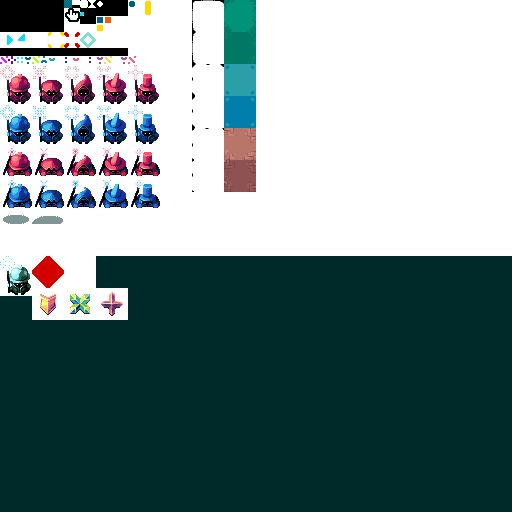
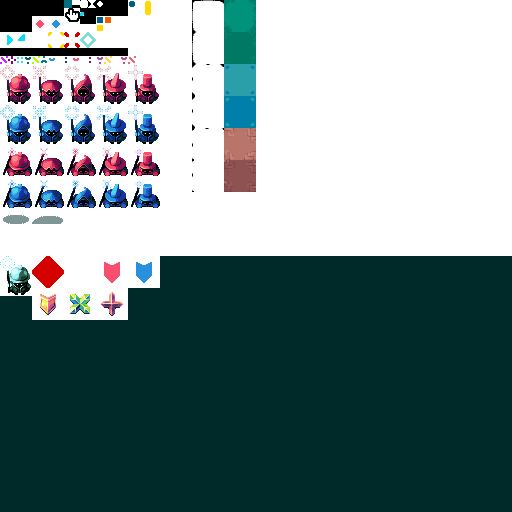
Implement shield powerup

Changed region(s): [[0.1875, 0.5, 0.3125, 0.5625], [0.0625, 0.0312, 0.125, 0.0625]]

diff --git a/src/app/state/lobby.rs b/src/app/state/lobby.rs
@@ -1,4 +1,4 @@
-use std::{cell::RefCell, rc::Rc};
+use std::{cell::RefCell, f64::consts::TAU, rc::Rc};
 
 use shared::{
     GameResult, LoadoutMethod, Lobby, LobbyError, LobbyID, LobbySettings, LobbySort, Mage, Mages,
@@ -306,6 +306,41 @@ impl LobbyState {
                 // DRAW markers
                 context.save();
 
+                for mage in self.lobby.game.iter_mages() {
+                    if mage.is_alive() && mage.is_defensive() {
+                        for (_, position) in self.lobby.game.targets(mage, mage.position) {
+                            match mage.team {
+                                Team::Red => {
+                                    draw_sprite(
+                                        context,
+                                        atlas,
+                                        32.0,
+                                        16.0,
+                                        16.0,
+                                        16.0,
+                                        position.0 as f64 * 32.0 + 8.0,
+                                        position.1 as f64 * 32.0 + 8.0,
+                                    )?;
+                                    // draw_crosshair(context, atlas, &position, (32.0, 16.0), 1)?;
+                                }
+                                Team::Blue => {
+                                    draw_sprite(
+                                        context,
+                                        atlas,
+                                        48.0,
+                                        16.0,
+                                        16.0,
+                                        16.0,
+                                        position.0 as f64 * 32.0 + 8.0,
+                                        position.1 as f64 * 32.0 + 8.0,
+                                    )?;
+                                    // draw_crosshair(context, atlas, &position, (48.0, 16.0), 1)?;
+                                }
+                            }
+                        }
+                    }
+                }
+
                 if let Some(mage) = self.get_active_mage() {
                     let available_moves = self.lobby.game.available_moves(mage);
                     for (position, dir, _) in &available_moves {
@@ -441,19 +476,35 @@ impl LobbyState {
 
                     context.restore();
 
-                    if mage.is_alive() && mage.has_diagonals() {
-                        for _ in 0..(frame / 3 % 2) {
-                            let d = js_sys::Math::random() * -std::f64::consts::PI * 0.9;
-                            let v = (js_sys::Math::random() + js_sys::Math::random()) * 0.05;
-                            self.particle_system.add(Particle::new(
-                                (
-                                    mage.position.0 as f64 + d.cos() * 0.4,
-                                    mage.position.1 as f64 - 0.15 + d.sin() * 0.4,
-                                ),
-                                (d.cos() * v, d.sin() * v),
-                                (js_sys::Math::random() * 30.0) as u64,
-                                ParticleSort::Diagonals,
-                            ));
+                    if mage.is_alive() {
+                        if mage.has_diagonals() {
+                            for _ in 0..(frame / 3 % 2) {
+                                let d = js_sys::Math::random() * -std::f64::consts::PI * 0.9;
+                                let v = (js_sys::Math::random() + js_sys::Math::random()) * 0.05;
+                                self.particle_system.add(Particle::new(
+                                    (
+                                        mage.position.0 as f64 + d.cos() * 0.4,
+                                        mage.position.1 as f64 - 0.15 + d.sin() * 0.4,
+                                    ),
+                                    (d.cos() * v, d.sin() * v),
+                                    (js_sys::Math::random() * 30.0) as u64,
+                                    ParticleSort::Diagonals,
+                                ));
+                            }
+                        } else if mage.is_defensive() {
+                            for _ in 0..(frame / 3 % 2) {
+                                let d = js_sys::Math::random() * -std::f64::consts::PI * 0.9;
+                                let v = (js_sys::Math::random() + js_sys::Math::random()) * 0.05;
+                                self.particle_system.add(Particle::new(
+                                    (
+                                        mage.position.0 as f64 + d.cos() * 0.4,
+                                        mage.position.1 as f64 - 0.15 + d.sin() * 0.4,
+                                    ),
+                                    (d.cos() * v, d.sin() * v),
+                                    (js_sys::Math::random() * 30.0) as u64,
+                                    ParticleSort::Shield,
+                                ));
+                            }
                         }
                     }
 

diff --git a/shared/src/logic/game.rs b/shared/src/logic/game.rs
@@ -1,4 +1,7 @@
-use std::{collections::HashMap, ops::Neg};
+use std::{
+    collections::{HashMap, HashSet},
+    ops::Neg,
+};
 
 use rand_chacha::{
     rand_core::{RngCore, SeedableRng},
@@ -49,6 +52,7 @@ pub struct Game {
     turns: Vec<Turn>,
     last_nominal: usize,
     available_turns: Vec<Turn>,
+    shielded_positions: HashSet<(Position, Team)>,
     can_stalemate: bool,
 }
 
@@ -64,10 +68,12 @@ impl Game {
             turns,
             last_nominal,
             available_turns: Vec::new(),
+            shielded_positions: HashSet::new(),
             can_stalemate,
         };
 
         game.available_turns = game.generate_available_turns();
+        game.shielded_positions = game.generate_shielded_positions();
 
         Ok(game)
     }
@@ -474,7 +480,9 @@ impl Game {
                         }
 
                         self.turns.push(Turn(from, *to));
+
                         self.available_turns = self.generate_available_turns();
+                        self.shielded_positions = self.generate_shielded_positions();
 
                         return Some(attacks);
                     }
@@ -531,7 +539,7 @@ impl Game {
 
     /// Returns the list of targets a [`Mage`] can attack to on a certain [`Position`].
     pub fn targets(&self, mage: &Mage, at: Position) -> Vec<(bool, Position)> {
-        if self.powerups().get(&at) == Some(&PowerUp::Beam) // Previewing in target selection
+        let mut attack_targets: Vec<(bool, Position)> = if self.powerups().get(&at) == Some(&PowerUp::Beam) // Previewing in target selection
         || mage.powerup == Some(PowerUp::Beam)
         // During actual attack
         {
@@ -556,12 +564,19 @@ impl Game {
                     (
                         self.level
                             .mages
-                            .live_occupied_by(position, mage.team.enemy()),
+                            .live_occupied_by(position, mage.team.enemy())
+                            && mage.powerup != Some(PowerUp::Shield),
                         *position,
                     )
                 })
                 .collect()
+        };
+
+        if self.shielded_positions.contains(&(at, mage.team.enemy())) {
+            attack_targets.push((true, at));
         }
+
+        attack_targets
     }
 
     /// Returns the [`Board`]'s size as an `usize` tuple.
@@ -592,6 +607,18 @@ impl Game {
         }
 
         rewinded_game
+    }
+
+    fn generate_shielded_positions(&self) -> HashSet<(Position, Team)> {
+        HashSet::from_iter(
+            self.iter_mages()
+                .filter(|mage| mage.is_alive() && mage.is_defensive())
+                .flat_map(|mage| {
+                    self.targets(mage, mage.position)
+                        .into_iter()
+                        .map(|(_, target)| (target, mage.team))
+                }),
+        )
     }
 }
 

diff --git a/shared/src/logic/level.rs b/shared/src/logic/level.rs
@@ -50,7 +50,7 @@ impl Level {
             mages,
             powerups: HashMap::from([
                 // (Position(1, 3), PowerUp::Shield),
-                (Position(2, 3), PowerUp::Beam),
+                (Position(2, 3), PowerUp::Shield),
                 // (Position(3, 3), PowerUp::Diagonal)
                 ]),
             starting_team,

diff --git a/shared/src/logic/team.rs b/shared/src/logic/team.rs
@@ -1,7 +1,7 @@
 use serde::{Deserialize, Serialize};
 
 /// An `enum` for the teams. Currently there are only two teams, red and blue.
-#[derive(PartialEq, Debug, Serialize, Deserialize, Copy, Clone, Default)]
+#[derive(PartialEq, Eq, Hash, Debug, Serialize, Deserialize, Copy, Clone, Default)]
 pub enum Team {
     /// Red team.
     #[default]
